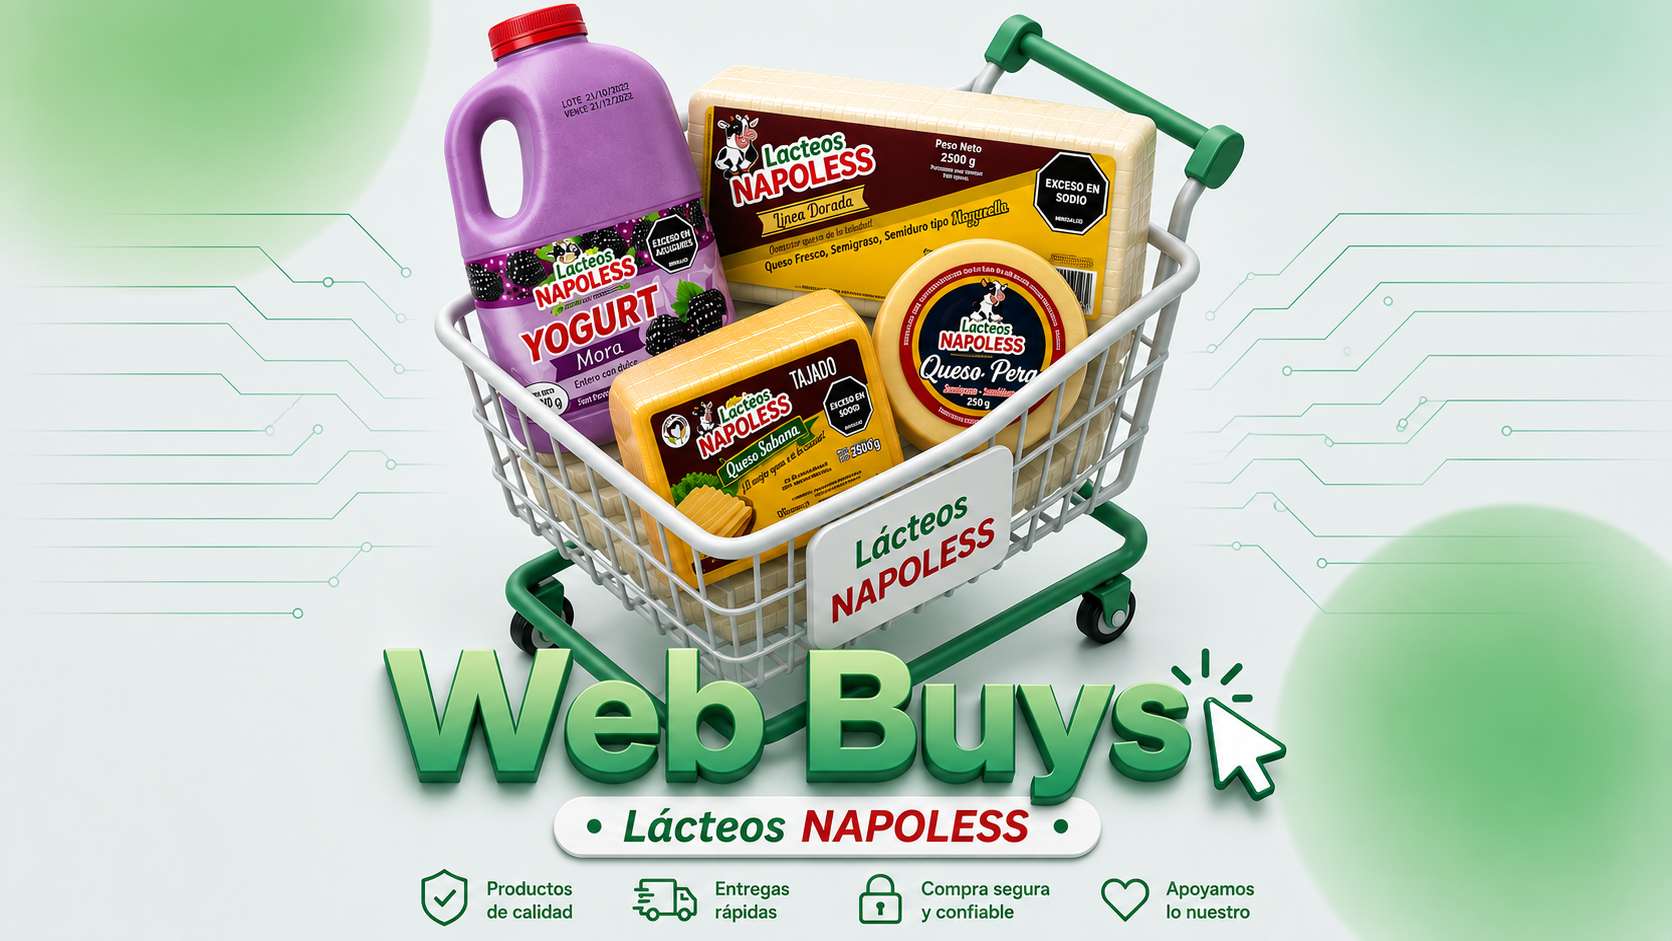
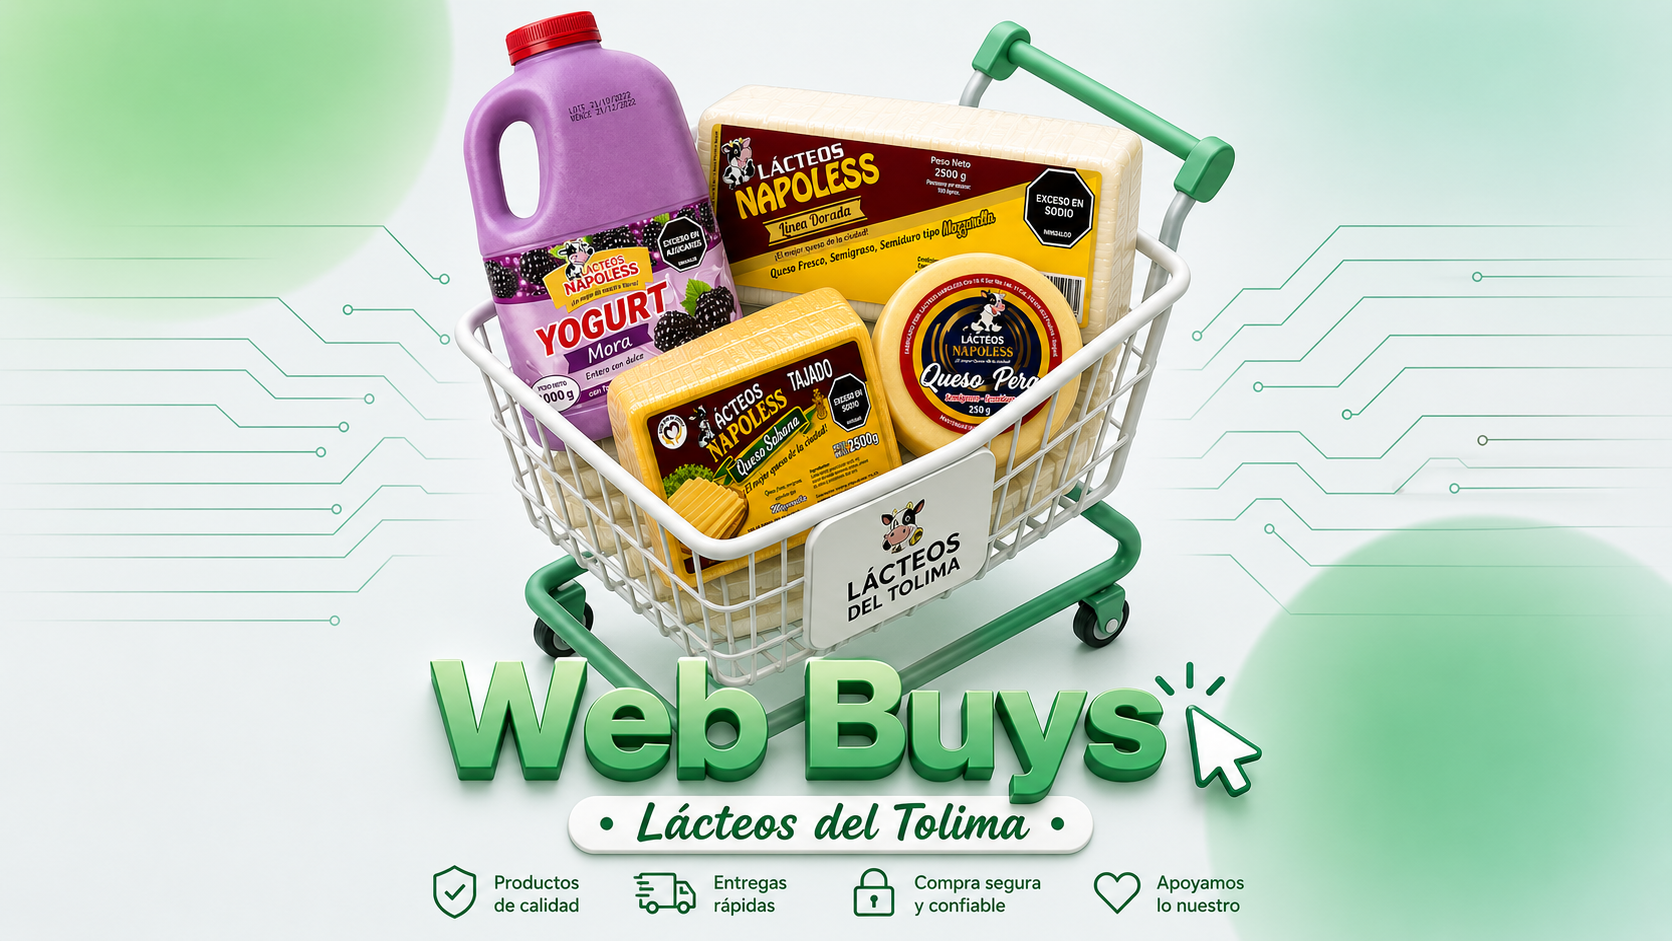
update

diff --git a/backend/src/models/Configuracion.js b/backend/src/models/Configuracion.js
@@ -1,7 +1,7 @@
 import mongoose from 'mongoose';
 
 const configuracionSchema = new mongoose.Schema({
-  nombreEmpresa: { type: String, default: 'LÁCTEOS DEL NAPOLESS' },
+  nombreEmpresa: { type: String, default: 'LÁCTEOS DEL TOLIMA' },
   nit: { type: String, default: '' },
   direccion: { type: String, default: '' },
   telefono: { type: String, default: '' },

diff --git a/frontend/src/components/layout/Sidebar.jsx b/frontend/src/components/layout/Sidebar.jsx
@@ -23,7 +23,7 @@ export default function Sidebar() {
         <div className="brand-mark">W</div>
         <div>
           <strong>WebBuys</strong>
-          <span>Lácteos NAPOLESS</span>
+          <span>Lácteos Del Tolima</span>
         </div>
       </div>
       <nav className="side-nav">

diff --git a/frontend/src/pages/Login.jsx b/frontend/src/pages/Login.jsx
@@ -70,7 +70,7 @@ export default function Login() {
         animate={{ opacity: 1, y: 0 }}
       >
         <span className="login-tag">
-          <center>ACCESO WEBBUYS</center>
+          <center>ACCESO A WEBBUYS</center>
         </span>
 
         <center>

diff --git a/frontend/src/styles/login.css b/frontend/src/styles/login.css
@@ -117,7 +117,7 @@
 
 .login-card input {
     width: 100%;
-    height: 45px;
+    height: 50px;
     border: 1px solid #09503763;
     border-radius: 16px;
     padding: 0 14px;
